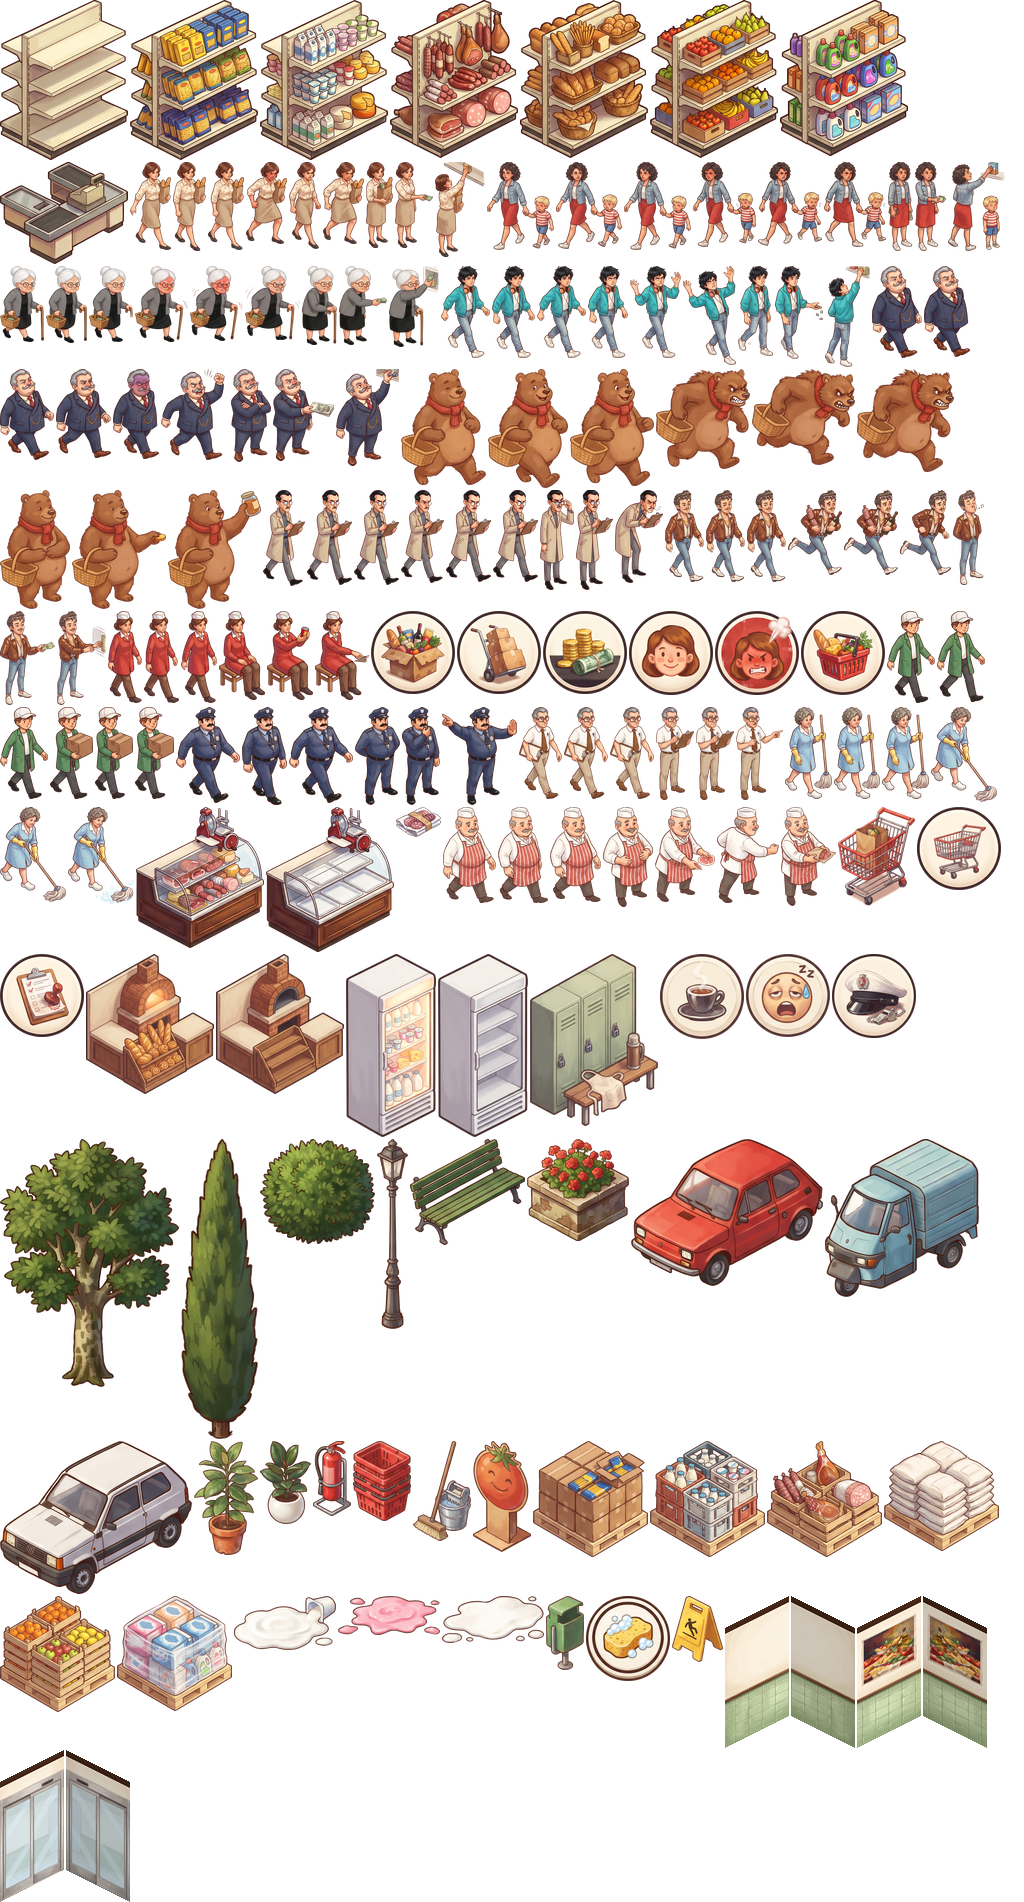
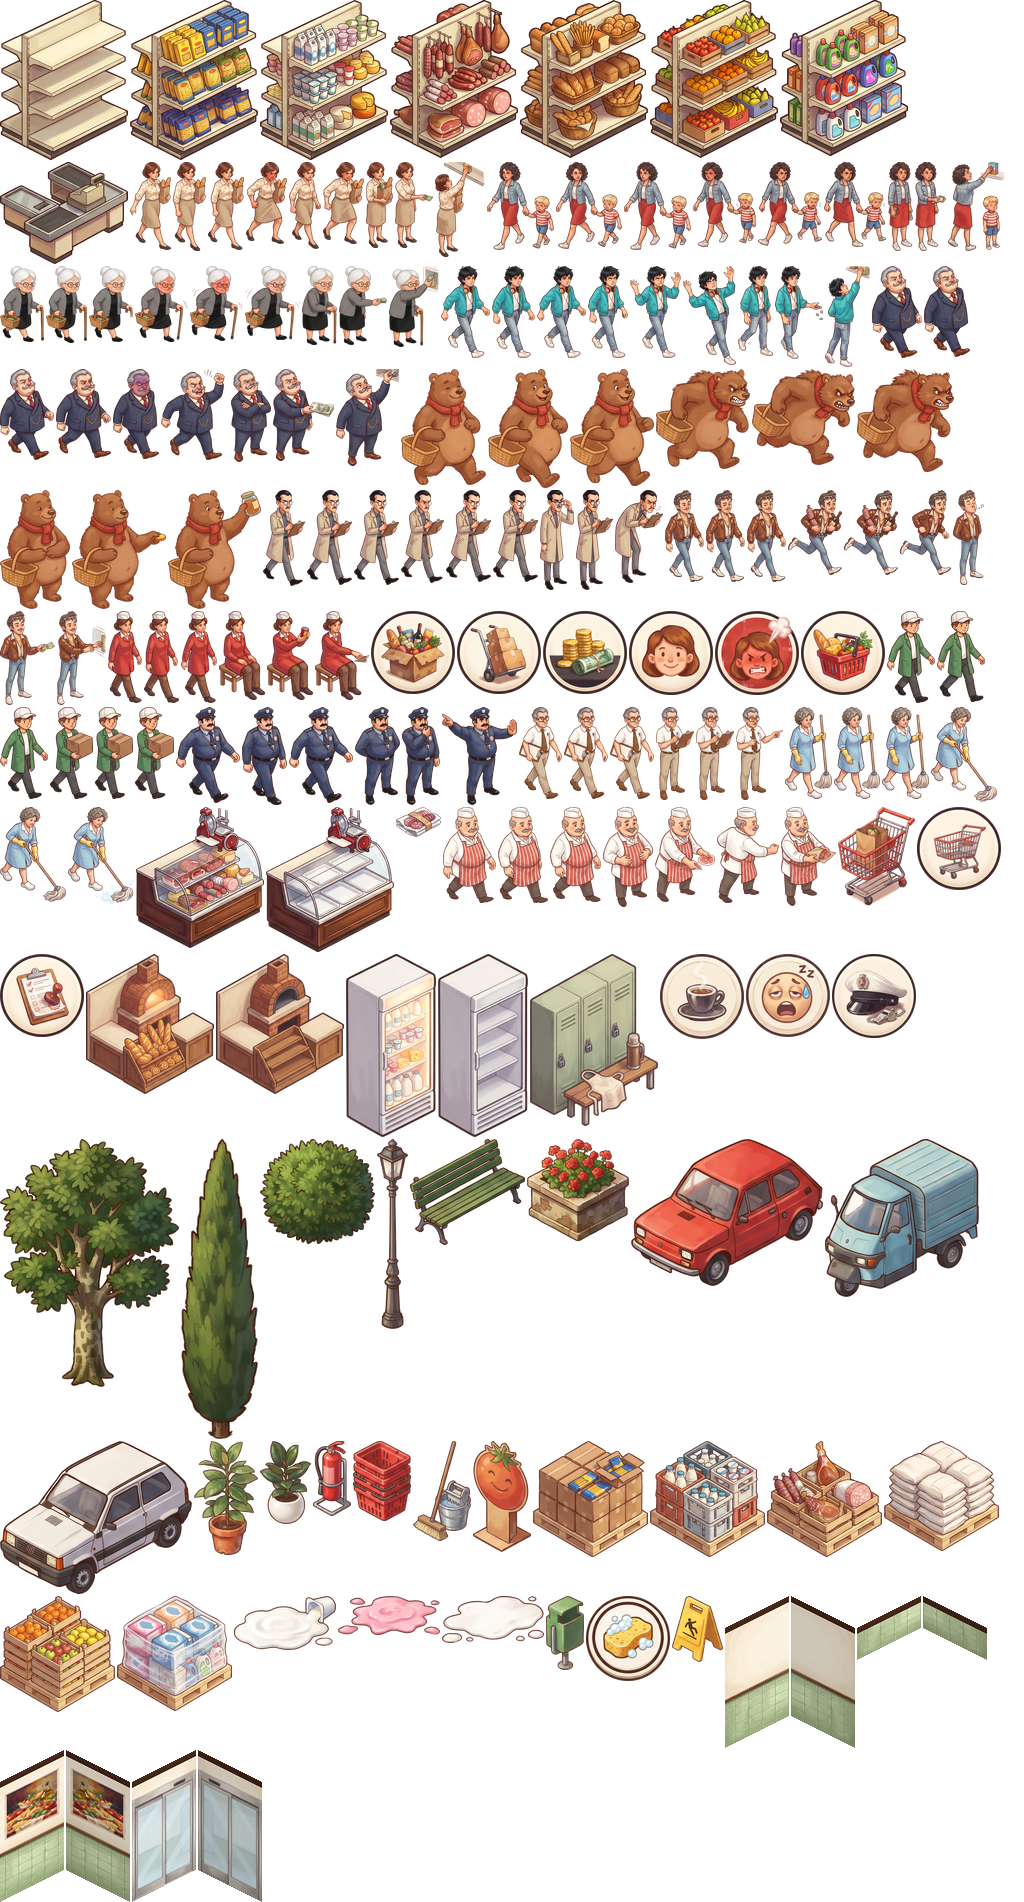
Level 1 one day, walls between rooms with doorways, low front walls
Playtest: level 1 is now one day (€850 / 45% / 45 served, checked with a
tapping bot) and has old ladies too. Rooms of different kinds are walled
off Theme Hospital style, with a doorway in the middle of each shared
side that walkers must use (Walkable.cross); furniture keeps off it.
Front edges get a low cutaway wall (kit frame muretto).

Changed region(s): [[0.0, 0.8996, 0.2812, 1.0], [0.8125, 0.8375, 0.9688, 0.9306]]

diff --git a/tests/walls.test.ts b/tests/walls.test.ts
@@ -1,21 +1,42 @@
 import { test } from 'node:test';
 import assert from 'node:assert/strict';
 import { createState } from '../src/sim/state.ts';
-import { apply } from '../src/sim/build.ts';
+import { apply, doorways, crossing } from '../src/sim/build.ts';
+import { findPath } from '../src/sim/path.ts';
 import { walls, doorEdge } from '../src/render/walls.ts';
 import { shop } from './helpers.ts';
 
 const has = (w: ReturnType<typeof walls>, x: number, y: number, side: string) => w.some((e) => e.x === x && e.y === y && e.side === side);
 
-test('walls run along the back edges of the building only', () => {
-    const s = shop({ cashier: false }); // sala x3..8 y3..7, casse x3..5 y8..9
+test('walls: back edges, between kinds of room with a doorway, low walls in front', () => {
+    const s = shop({ cashier: false }); // sala x3..8 y3..7, casse x3..5 y8..9, door (8,5) on 'fr'
     const w = walls(s);
-    assert.ok(has(w, 3, 3, 'l') && has(w, 3, 3, 'r'), 'back corner');
-    assert.ok(has(w, 8, 3, 'r') && !has(w, 8, 3, 'l'), 'back-right edge');
-    assert.ok(has(w, 3, 9, 'l'), 'checkout area has its own back wall');
-    assert.ok(!has(w, 4, 4, 'l') && !has(w, 4, 4, 'r'), 'no walls inside');
-    assert.ok(!has(w, 3, 8, 'r'), 'no wall between sala and checkout area');
-    assert.ok(w.every((e) => e.side === 'l' || e.side === 'r'), 'no front walls');
+    const full = (x: number, y: number, side: string) => w.some((e) => e.x === x && e.y === y && e.side === side && !e.low);
+    const low = (x: number, y: number, side: string) => w.some((e) => e.x === x && e.y === y && e.side === side && e.low);
+    assert.ok(full(3, 3, 'l') && full(3, 3, 'r'), 'back corner');
+    assert.ok(full(8, 3, 'r') && !has(w, 8, 3, 'l'), 'back-right edge');
+    assert.ok(full(3, 9, 'l'), 'checkout area has its own back wall');
+    assert.ok(!has(w, 4, 4, 'l') && !has(w, 4, 4, 'r'), 'no walls inside a room');
+    assert.ok(full(3, 8, 'r') && full(5, 8, 'r'), 'wall between sala and checkout area');
+    assert.ok(!has(w, 4, 8, 'r'), 'with a doorway in the middle');
+    assert.ok(low(8, 3, 'fr') && low(3, 9, 'fl') && low(6, 7, 'fl'), 'low walls along the front');
+    assert.ok(!has(w, 8, 5, 'fr'), 'none where the door is');
+});
+
+test('doorways: walkers cross between kinds of room only there; furniture keeps off them', () => {
+    const s = shop({ cashier: false });
+    assert.deepEqual([...doorways(s)], ['4,7|4,8']);
+    const cross = crossing(s);
+    assert.ok(cross({ x: 4, y: 7 }, { x: 4, y: 8 }) && !cross({ x: 3, y: 7 }, { x: 3, y: 8 }) && cross({ x: 3, y: 7 }, { x: 4, y: 7 }));
+    const p = findPath(Object.assign(() => true, { cross }), { x: 3, y: 7 }, { x: 3, y: 8 })!;
+    assert.deepEqual(p, [{ x: 4, y: 7 }, { x: 4, y: 8 }, { x: 3, y: 8 }], 'round through the doorway');
+    assert.equal(apply(s, { type: 'placeObject', object: 'scaffale', x: 4, y: 7, category: 'Pasta' }).reason, 'Lascia libero il passaggio');
+    const even = createState(); // shared side of 4 cells: two doorway cells in the middle
+    apply(even, { type: 'buildRoom', room: 'sala_vendita', x: 2, y: 2, w: 4, h: 3 });
+    apply(even, { type: 'buildRoom', room: 'magazzino', x: 2, y: 5, w: 4, h: 2 });
+    assert.deepEqual([...doorways(even)].sort(), ['3,4|3,5', '4,4|4,5']);
+    apply(even, { type: 'buildRoom', room: 'sala_vendita', x: 6, y: 2, w: 2, h: 3 });
+    assert.ok(!walls(even).some((e) => e.x === 6 && e.side === 'l' && e.y < 5), 'same kind of room side by side: no wall');
 });
 
 test('the door sits on the outer edge of its cell, in the wall when that edge is at the back', () => {

diff --git a/src/sim/build.ts b/src/sim/build.ts
@@ -33,6 +33,41 @@ export const roomAt = (s: GameState, x: number, y: number) =>
 
 export const objectAt = (s: GameState, x: number, y: number) => s.objects.find((o) => o.x === x && o.y === y);
 
+/** Edge between two cells, either order. */
+export const edgeKey = (ax: number, ay: number, bx: number, by: number) => (ax + ay * 1000 < bx + by * 1000 ? `${ax},${ay}|${bx},${by}` : `${bx},${by}|${ax},${ay}`);
+
+/**
+ * Doorways in the walls between rooms of different types (Theme Hospital style, playtest 2026-11-27):
+ * the middle one or two cells of each shared side. Rooms of the same type side by side stay one open area.
+ */
+export function doorways(s: GameState): Set<string> {
+    const out = new Set<string>();
+    for (const a of s.rooms)
+        for (const b of s.rooms) {
+            if (a.type === b.type) continue;
+            const side: [number, number, number, number][] = [];
+            for (let x = a.x; x < a.x + a.w; x++)
+                for (let y = a.y; y < a.y + a.h; y++)
+                    for (const [dx, dy] of [[1, 0], [0, 1]]) if (roomAt(s, x + dx, y + dy) === b) side.push([x, y, x + dx, y + dy]);
+            const n = side.length, mid = n % 2 ? [(n - 1) / 2] : [n / 2 - 1, n / 2];
+            if (n) for (const i of mid) out.add(edgeKey(...side[i]));
+        }
+    return out;
+}
+
+/** May a walker step from a to b? Only through a doorway where two kinds of room meet. */
+export function crossing(s: GameState) {
+    const open = doorways(s);
+    return (a: { x: number; y: number }, b: { x: number; y: number }) => {
+        const ra = roomAt(s, a.x, a.y), rb = roomAt(s, b.x, b.y);
+        return !ra || !rb || ra.type === rb.type || open.has(edgeKey(a.x, a.y, b.x, b.y));
+    };
+}
+
+/** Cells on either side of a doorway: kept free of furniture. */
+export const inDoorway = (s: GameState, x: number, y: number) =>
+    [...doorways(s)].some((k) => k.split('|').includes(`${x},${y}`));
+
 const roomCost = (type: RoomType, w: number, h: number) => w * h * ROOMS[type].costPerCell;
 
 const overlaps = (a: Room, b: { x: number; y: number; w: number; h: number }) =>
@@ -55,6 +90,7 @@ export function check(s: GameState, c: Command): Result {
         const room = roomAt(s, c.x, c.y);
         if (!room || room.type !== def.room) return fail(`${def.label}: va in ${ROOMS[def.room].label}`);
         if (objectAt(s, c.x, c.y)) return fail('Cella occupata');
+        if (c.object !== 'porta' && inDoorway(s, c.x, c.y)) return fail('Lascia libero il passaggio');
         if (c.object === 'scaffale' && !CATEGORIES.includes(c.category as Category)) return fail('Scegli una categoria');
         const special = Object.entries(ONLY_IN).find(([, cat]) => cat === c.category);
         if (c.object === 'scaffale' && special) return fail(`${c.category}: ci vuole ${OBJECTS[special[0] as ObjectType].label.toLowerCase()}`);

diff --git a/src/render/walls.ts b/src/render/walls.ts
@@ -1,6 +1,6 @@
 // Where walls and the door are drawn. Pure: tests/walls.test.ts.
 // Edges of cell (x, y) on screen: 'l' = top-left (-x), 'r' = top-right (-y), 'fr' = bottom-right (+x), 'fl' = bottom-left (+y).
-import { roomAt } from '../sim/build.ts';
+import { roomAt, doorways, edgeKey } from '../sim/build.ts';
 import type { GameState, ShopObject } from '../sim/state.ts';
 
 export type Edge = 'l' | 'r' | 'fr' | 'fl';
@@ -13,14 +13,22 @@ export function doorEdge(s: GameState, d: Pick<ShopObject, 'x' | 'y'>): Edge {
     return (out ?? other ?? DIRS[0])[0];
 }
 
-/** Back walls (Theme Hospital cutaway): top-left and top-right edges of built cells that face the lot; none where the door is. */
+/**
+ * Walls on cell edges (Theme Hospital style). Back edges ('l', 'r') facing the lot or a different kind of room get a full wall,
+ * except doorways and the door; front edges ('fr', 'fl') facing the lot get a low wall (`low`), so the shop stays visible.
+ */
 export function walls(s: GameState) {
     const door = s.objects.filter((o) => o.type === 'porta').map((d) => `${d.x},${d.y},${doorEdge(s, d)}`);
-    const out: { x: number; y: number; side: Edge }[] = [];
+    const open = doorways(s);
+    const out: { x: number; y: number; side: Edge; low?: boolean }[] = [];
     for (const r of s.rooms)
         for (let y = r.y; y < r.y + r.h; y++)
             for (let x = r.x; x < r.x + r.w; x++)
-                for (const [side, dx, dy] of DIRS.slice(0, 2))
-                    if (!roomAt(s, x + dx, y + dy) && !door.includes(`${x},${y},${side}`)) out.push({ x, y, side });
+                for (const [side, dx, dy] of DIRS) {
+                    const n = roomAt(s, x + dx, y + dy), back = side === 'l' || side === 'r';
+                    if (door.includes(`${x},${y},${side}`)) continue;
+                    if (!n) out.push({ x, y, side, ...(back ? {} : { low: true }) });
+                    else if (back && n.type !== r.type && !open.has(edgeKey(x, y, x + dx, y + dy))) out.push({ x, y, side });
+                }
     return out;
 }

diff --git a/src/sim/path.ts b/src/sim/path.ts
@@ -10,7 +10,7 @@ const DIRS = [[1, 0], [-1, 0], [0, 1], [0, -1]];
  * [] if already there, null if unreachable or `to` is not walkable.
  * `from` itself need not be walkable (e.g. standing on a door).
  */
-export function findPath(walkable: (x: number, y: number) => boolean, from: Cell, to: Cell): Cell[] | null {
+export function findPath(walkable: Walkable, from: Cell, to: Cell): Cell[] | null {
     if (from.x === to.x && from.y === to.y) return [];
     if (!walkable(to.x, to.y)) return null;
     const h = (x: number, y: number) => Math.abs(x - to.x) + Math.abs(y - to.y);
@@ -33,7 +33,7 @@ export function findPath(walkable: (x: number, y: number) => boolean, from: Cell
         const gc = g.get(key(cur.x, cur.y))! + 1;
         for (const [dx, dy] of DIRS) {
             const nx = cur.x + dx, ny = cur.y + dy;
-            if (!walkable(nx, ny)) continue;
+            if (!walkable(nx, ny) || (walkable.cross && !walkable.cross(cur, { x: nx, y: ny }))) continue;
             const k = key(nx, ny);
             if (gc < (g.get(k) ?? Infinity)) {
                 g.set(k, gc);
@@ -45,7 +45,8 @@ export function findPath(walkable: (x: number, y: number) => boolean, from: Cell
     return null;
 }
 
-export type Walkable = (x: number, y: number) => boolean;
+/** Cells one may stand on; `cross`, when given, also vets each step between two cells (walls between rooms). */
+export type Walkable = ((x: number, y: number) => boolean) & { cross?: (a: Cell, b: Cell) => boolean };
 
 /** Shortest path to any walkable cell next to an object at (o.x, o.y). */
 export function pathToObject(w: Walkable, from: Cell, o: Cell): Cell[] | null {

diff --git a/src/sim/customers.ts b/src/sim/customers.ts
@@ -9,6 +9,7 @@ import {
 } from './config.ts';
 import { findPath, pathToObject, walk, type Cell, type Walkable } from './path.ts';
 import { rand } from './rng.ts';
+import { crossing } from './build.ts';
 import { cashierAt, pace, tired, wantsBreak } from './staff.ts';
 import { spawnEveryMin } from './day.ts';
 import { maybeSpill, spillNear } from './dirt.ts';
@@ -27,7 +28,7 @@ export function walkableFor(s: GameState): Walkable {
     }
     for (const o of s.objects) if (o.type !== 'porta') open.delete(`${o.x},${o.y}`);
     for (const c of s.carts) open.delete(`${c.x},${c.y}`);
-    return (x, y) => open.has(`${x},${y}`);
+    return Object.assign((x: number, y: number) => open.has(`${x},${y}`), { cross: crossing(s) });
 }
 
 const door = (s: GameState) => s.objects.find((o) => o.type === 'porta');
@@ -184,7 +185,7 @@ function queueCells(s: GameState, w: Walkable, till: ShopObject, n: number): Cel
     const [dx, dy] = [front.x - till.x, front.y - till.y];
     for (let cur = front; cells.length < n; ) {
         const next = [[dx, dy], [dy, dx], [-dy, -dx]].map(([a, b]) => ({ x: cur.x + a, y: cur.y + b }))
-            .find((c) => w(c.x, c.y) && !used.has(`${c.x},${c.y}`));
+            .find((c) => w(c.x, c.y) && !used.has(`${c.x},${c.y}`) && (!w.cross || w.cross(cur, c)));
         if (!next) break; // no room: the rest share the last cell
         cells.push(next);
         used.add(`${next.x},${next.y}`);

diff --git a/src/sim/staff.ts b/src/sim/staff.ts
@@ -8,7 +8,7 @@ import { findPath, pathToObject, walk, type Cell, type Walkable } from './path.t
 import type { GameState, Role, Trait, Staff, ShopObject, Cart } from './state.ts';
 import { updateCleaner } from './dirt.ts';
 import { tricking, catchFurbetto, readyAt } from './customers.ts';
-import { check, apply, type Command } from './build.ts';
+import { check, apply, crossing, type Command } from './build.ts';
 
 /** Top up the candidate list to CANDIDATES_PER_ROLE per role. */
 export function refillCandidates(s: GameState) {
@@ -40,7 +40,7 @@ function walkableFor(s: GameState): Walkable {
     const open = new Set<string>();
     for (const r of s.rooms) for (let x = r.x; x < r.x + r.w; x++) for (let y = r.y; y < r.y + r.h; y++) open.add(`${x},${y}`);
     for (const o of s.objects) if (o.type !== 'porta') open.delete(`${o.x},${o.y}`);
-    return (x, y) => open.has(`${x},${y}`);
+    return Object.assign((x: number, y: number) => open.has(`${x},${y}`), { cross: crossing(s) });
 }
 
 /** Tired: below the break threshold (milestone 18). Work pace: TIRED_SPEED when tired, else the trait's speed. */

diff --git a/src/sim/levels.ts b/src/sim/levels.ts
@@ -39,12 +39,12 @@ export const LEVELS: Level[] = [
         ],
         door: { x: 9, y: 5 },
         money: 1500,
-        days: 2,
-        goals: { money: 1500, reputation: 55, served: 80 },
+        days: 1, // playtest 2026-11-27: two days of the same taps were boring
+        goals: { money: 850, reputation: 45, served: 45 },
         warehouse: { Pasta: 120, Frutta: 120, Detersivi: 120 },
         objects: ['scaffale', 'cassa'],
         roles: ['cassiere', 'magazziniere'],
-        customers: ['signora'],
+        customers: ['signora', 'vecchietta'],
         features: [],
     },
     {
@@ -52,7 +52,7 @@ export const LEVELS: Level[] = [
         blurb: 'Un minimarket di quartiere: più clienti, e la merce adesso la ordini tu.',
         news: [
             'Il magazzino è quasi vuoto: ordina la merce dal tasto Merce.',
-            'Arrivano le mamme col bambino e le vecchiette.',
+            'Arrivano le mamme col bambino.',
         ],
         grid: { w: 14, h: 13 },
         rooms: [

diff --git a/src/render/draw.ts b/src/render/draw.ts
@@ -218,7 +218,7 @@ export function drawThings(g: G, over: G, s: GameState, put: Put = noPut) {
     g.clear();
     over.clear();
     const items: { d: number; draw: (depth: number) => void }[] = [
-        ...walls(s).map((w) => ({ d: w.x + w.y - 0.5, draw: (z: number) => panel(put, poster(w.x, w.y) ? 'muro_poster' : 'muro', w.x, w.y, w.side, z) })),
+        ...walls(s).map((w) => ({ d: w.x + w.y + (w.low ? 0.6 : -0.5), draw: (z: number) => panel(put, w.low ? 'muretto' : poster(w.x, w.y) ? 'muro_poster' : 'muro', w.x, w.y, w.side, z) })),
         ...s.objects.map((o) => {
             if (o.type !== 'porta') return { d: o.x + o.y, draw: (z: number) => drawObject(g, o, 1, put, z) };
             const edge = doorEdge(s, o);

diff --git a/src/render/sprites.ts b/src/render/sprites.ts
@@ -35,7 +35,7 @@ export const PEOPLE_FRAMES = [
 export const SPILL_FRAMES = ['macchia_0', 'macchia_1', 'macchia_2'];
 
 /** Wall and door panels, one per back-edge orientation (tools/kit.py WALLS). */
-export const WALL_FRAMES = ['muro', 'muro_poster', 'porta'].flatMap((n) => [`${n}_l`, `${n}_r`]);
+export const WALL_FRAMES = ['muro', 'muro_poster', 'porta', 'muretto'].flatMap((n) => [`${n}_l`, `${n}_r`]);
 
 /** Tap icon badges (Game.drawIcons). */
 export const ICON_FRAMES = ['icona_restock', 'icona_arrivo', 'icona_soldi', 'icona_pulisci', 'icona_carrello', 'icona_beccato', 'icona_pausa', 'icona_stanco'];

diff --git a/tools/kit.py b/tools/kit.py
@@ -82,12 +82,13 @@ def pieces():
             yield name, p.resize((max(1, round(p.width * f)), max(1, round(p.height * f))), Image.LANCZOS), round(ax, 3)
 
 WALL_H = 60  # game px
+MURETTO_H = 16  # low front walls
 # (frame, panel index in pareti.jpg, horizontal crop as fractions of the panel): textures are front views.
 WALLS = [('muro', 0, (0.0, 0.5)), ('muro_poster', 1, (0.25, 0.75)), ('porta', 2, (0.08, 0.92))]
 
-def slant(tex, dark):
+def slant(tex, dark, wall_h=WALL_H):
     """Front-view texture -> wall standing on a cell's top-left edge (frame bottom-centre = edge midpoint + 8 px down)."""
-    w, h = 32 * RES, WALL_H * RES
+    w, h = 32 * RES, wall_h * RES
     tex = tex.resize((w, h), Image.LANCZOS)
     top = Image.new('RGBA', (w, 3 * RES), (70, 40, 25, 255)); tex.paste(top, (0, 0))  # wall cap
     if dark: tex = Image.eval(tex.convert('RGB'), lambda c: int(c * 0.82)).convert('RGBA')
@@ -104,6 +105,9 @@ def walls():
         panel, _ = cutout(img.crop((i * cw, 0, (i + 1) * cw, img.height)))
         tex = panel.crop((round(a * panel.width), 0, round(b * panel.width), panel.height))
         out += [(f'{name}_l', slant(tex, False), 0.5), (f'{name}_r', slant(tex, True).transpose(Image.FLIP_LEFT_RIGHT), 0.5)]
+        if name == 'muro':  # low front wall (cutaway): the bottom of the plain wall
+            low = tex.crop((0, round(tex.height * 0.62), tex.width, tex.height))
+            out += [('muretto_l', slant(low, False, MURETTO_H), 0.5), ('muretto_r', slant(low, True, MURETTO_H).transpose(Image.FLIP_LEFT_RIGHT), 0.5)]
     return out
 
 def main():

diff --git a/docs/milestones/20-campagna-negozi-prestabiliti.md b/docs/milestones/20-campagna-negozi-prestabiliti.md
@@ -19,7 +19,7 @@ Far entrare un giocatore nuovo nelle meccaniche una alla volta. Oggi la partita 
 - "Negozio libero" = la partita attuale (lotto vuoto, tutto sbloccato, obiettivi di oggi), sbloccata dopo il livello 3.
 - Livelli 1–3:
   1. **Alimentari da Pina** (piccolo, sala + casse + magazzino già pieno): scaffali, cassa, cassiere, tocco 💰. Solo signore. Niente imprevisti.
-  2. **Minimarket Il Girasole**: + magazziniere, ordini merce, tocco 📦. Arrivano mamme e vecchiette.
+  2. **Minimarket Il Girasole**: + magazziniere, ordini merce, tocco 📦. Arrivano le mamme (le vecchiette dal livello 1 dopo il playtest).
   3. **Superette San Rocco**: + tutti i clienti normali, macchie, addetto pulizie, cestino.
 - Bilanciamento con `output/levels-balance.ts` per livello (8 semi): con i tocchi si vince sempre, senza tocchi né staff giusto si perde.
 - Salvataggi vecchi: si caricano come "Negozio libero".
@@ -61,7 +61,7 @@ L'utente apre "Campagna", gioca Alimentari da Pina con solo scaffali, cassa e ca
 - Decisioni utente 2026-11-27: ordine 20 → 21 → 22; negozi inventati tipici (niente marchi veri); stanze fisse, solo arredi; partita di oggi tenuta come "Negozio libero".
 - Implementazione: `src/sim/levels.ts` (dati dei livelli, `allows`, `goalsOf`, `sellable`, progressi). `createState(level)`; `level: 0` = Negozio libero, quindi i test vecchi non cambiano. Gli sblocchi stanno nella sim: `check` (oggetti, ordini, stanze e porta fisse), `refillCandidates` (ruoli), `pickKind` e liste spesa (clienti e categorie vendibili), `maybeSpill`, carrelli, ispezione, stanchezza (feature `tiredness`, accesa dal livello 6).
 - Livello 1: oltre a cassiere c'è anche il magazziniere (senza, gli scaffali da 10 si svuotano in un'ora e si perde 8/8). La merce però arriva da sola: magazzino pieno, niente ordini. Gli ordini arrivano al livello 2.
-- Clienti per livello: 1 solo signore; 2 + mamme e vecchiette; 3 + giovani. Chiedono solo categorie vendibili nel negozio (Pasta, Frutta, Detersivi finché non ci sono frigo, bancone e forno).
+- Clienti per livello: 1 signore e vecchiette (playtest 2026-11-27: un giorno solo, €850 / 45% / 45 serviti); 2 + mamme; 3 + giovani. Chiedono solo categorie vendibili nel negozio (Pasta, Frutta, Detersivi finché non ci sono frigo, bancone e forno).
 - La camera inquadra le stanze del negozio, non tutto il lotto (zoom fino a 2×).
 - Menu: Continua / Campagna / Negozio libero (dopo il livello 3). Campagna → lista livelli con ✓ e 🔒. Fine livello: Livello successivo / Rigioca o Riprova / Menu. Progressi in localStorage `supermercatino-campagna`.
 - Bilanciamento (`output/levels-balance.ts`, 8 semi):
